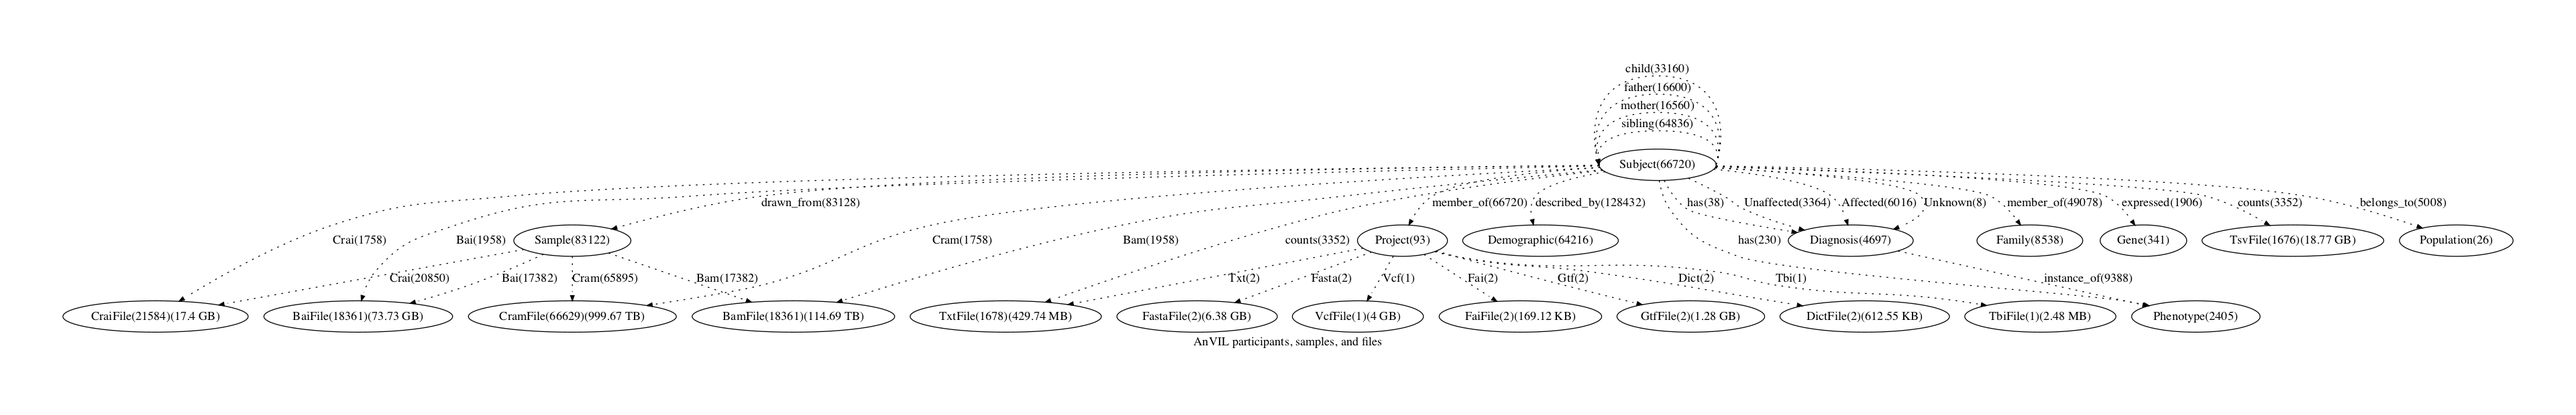
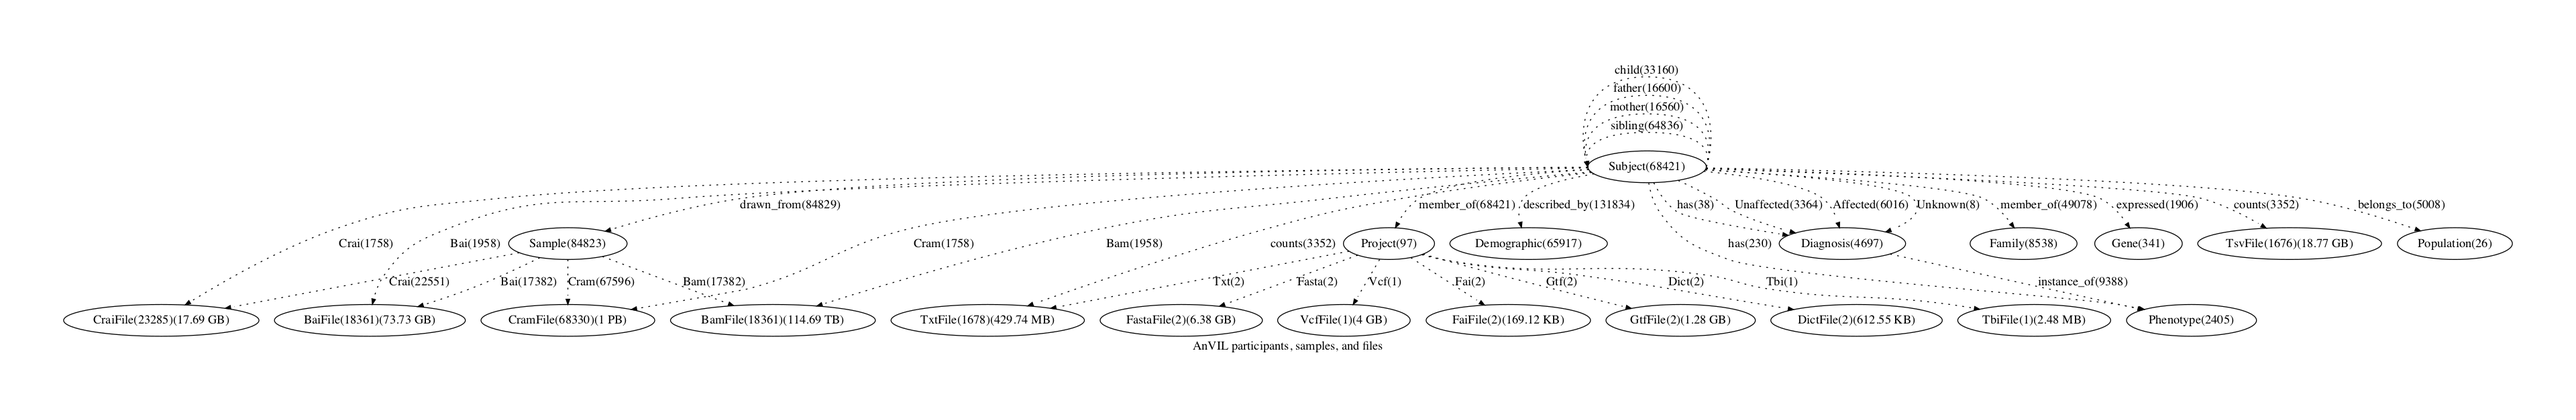
Updates data dashboard

diff --git a/pyAnVIL/anvil/terra.py b/pyAnVIL/anvil/terra.py
@@ -111,7 +111,8 @@ def get_projects(namespaces=None, project_pattern=None, fapi=FAPI, user_project=
                       'program': w['workspace']['namespace'],
                       'bucketName': w['workspace']['bucketName'],
                       'project_files': project_files(w),
-                      'public': w['public']
+                      'public': w['public'],
+                      'authorizationDomains': [ad['membersGroupName'] for ad in w['workspace']['authorizationDomain']]
                       }) for w in workspaces if w['workspace']['namespace'] in namespaces
         ]
     if project_pattern:

diff --git a/pyAnVIL/notebooks/figures/report.md b/pyAnVIL/notebooks/figures/report.md
@@ -1,4 +1,4 @@
-# AnVIL Summary  2019-12-02
+# AnVIL Summary  2019-12-06
 
 ## Combined Graph
 
@@ -67,7 +67,7 @@
   </thead>
   <tbody>
     <tr>
-      <th rowspan="63" valign="top">CCDG</th>
+      <th rowspan="67" valign="top">CCDG</th>
       <th>AnVIL_CCDG_WashU_CVD_EOCAD_BioMe_WGS</th>
       <td></td>
       <td></td>
@@ -718,6 +718,58 @@
       <td>21.61 TB</td>
     </tr>
     <tr>
+      <th>AnVIL_CCDG_Broad_NP_Epilepsy_IRLRCI_GRU_IRB_WES</th>
+      <td></td>
+      <td></td>
+      <td>777</td>
+      <td>777</td>
+      <td>777</td>
+      <td></td>
+      <td></td>
+      <td></td>
+      <td></td>
+      <td></td>
+      <td></td>
+      <td></td>
+      <td></td>
+      <td></td>
+      <td>1</td>
+      <td>777</td>
+      <td>777</td>
+      <td></td>
+      <td></td>
+      <td></td>
+      <td></td>
+      <td>False</td>
+      <td>1.38 TB</td>
+    </tr>
+    <tr>
+      <th>AnVIL_CCDG_Broad_NP_Epilepsy_DEUULG_GRU_WES</th>
+      <td></td>
+      <td></td>
+      <td>74</td>
+      <td>74</td>
+      <td>74</td>
+      <td></td>
+      <td></td>
+      <td></td>
+      <td></td>
+      <td></td>
+      <td></td>
+      <td></td>
+      <td></td>
+      <td></td>
+      <td>1</td>
+      <td>74</td>
+      <td>74</td>
+      <td></td>
+      <td></td>
+      <td></td>
+      <td></td>
+      <td>False</td>
+      <td>121.17 GB</td>
+    </tr>
+    <tr>
       <th>AnVIL_CCDG_Broad_NP_Epilepsy_AUSRMB_DS-EAED-MDS_WES</th>
       <td></td>
       <td></td>
@@ -872,6 +924,32 @@
       <td></td>
       <td>False</td>
       <td>27.93 TB</td>
+    </tr>
+    <tr>
+      <th>AnVIL_CCDG_Broad_NP_Epilepsy_ITAIGI_GRU_WES</th>
+      <td></td>
+      <td></td>
+      <td>606</td>
+      <td>606</td>
+      <td>606</td>
+      <td></td>
+      <td></td>
+      <td></td>
+      <td></td>
+      <td></td>
+      <td></td>
+      <td></td>
+      <td></td>
+      <td></td>
+      <td>1</td>
+      <td>606</td>
+      <td>606</td>
+      <td></td>
+      <td></td>
+      <td></td>
+      <td></td>
+      <td>False</td>
+      <td>1.07 TB</td>
     </tr>
     <tr>
       <th>AnVIL_CCDG_Baylor_CVD_EOCAD_SoL_WGS</th>
@@ -1704,6 +1782,32 @@
       <td></td>
       <td>False</td>
       <td>13.92 TB</td>
+    </tr>
+    <tr>
+      <th>AnVIL_CCDG_Broad_NP_Epilepsy_ITAICB_HMB_NPU_MDS_WES</th>
+      <td></td>
+      <td></td>
+      <td>244</td>
+      <td>244</td>
+      <td>244</td>
+      <td></td>
+      <td></td>
+      <td></td>
+      <td></td>
+      <td></td>
+      <td></td>
+      <td></td>
+      <td></td>
+      <td></td>
+      <td>1</td>
+      <td>244</td>
+      <td>244</td>
+      <td></td>
+      <td></td>
+      <td></td>
+      <td></td>
+      <td>False</td>
+      <td>403.85 GB</td>
     </tr>
     <tr>
       <th rowspan="29" valign="top">CMG</th>
